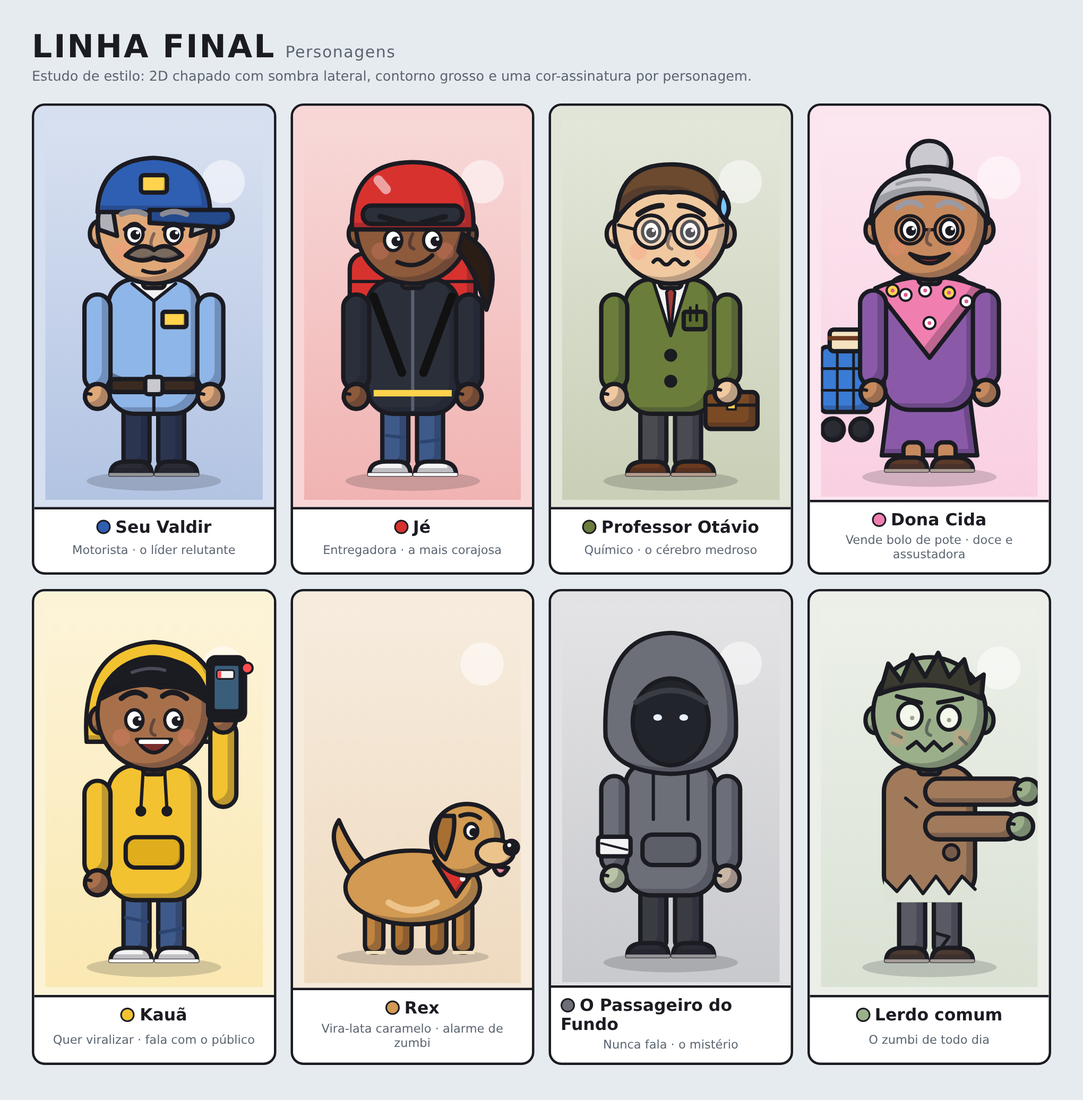
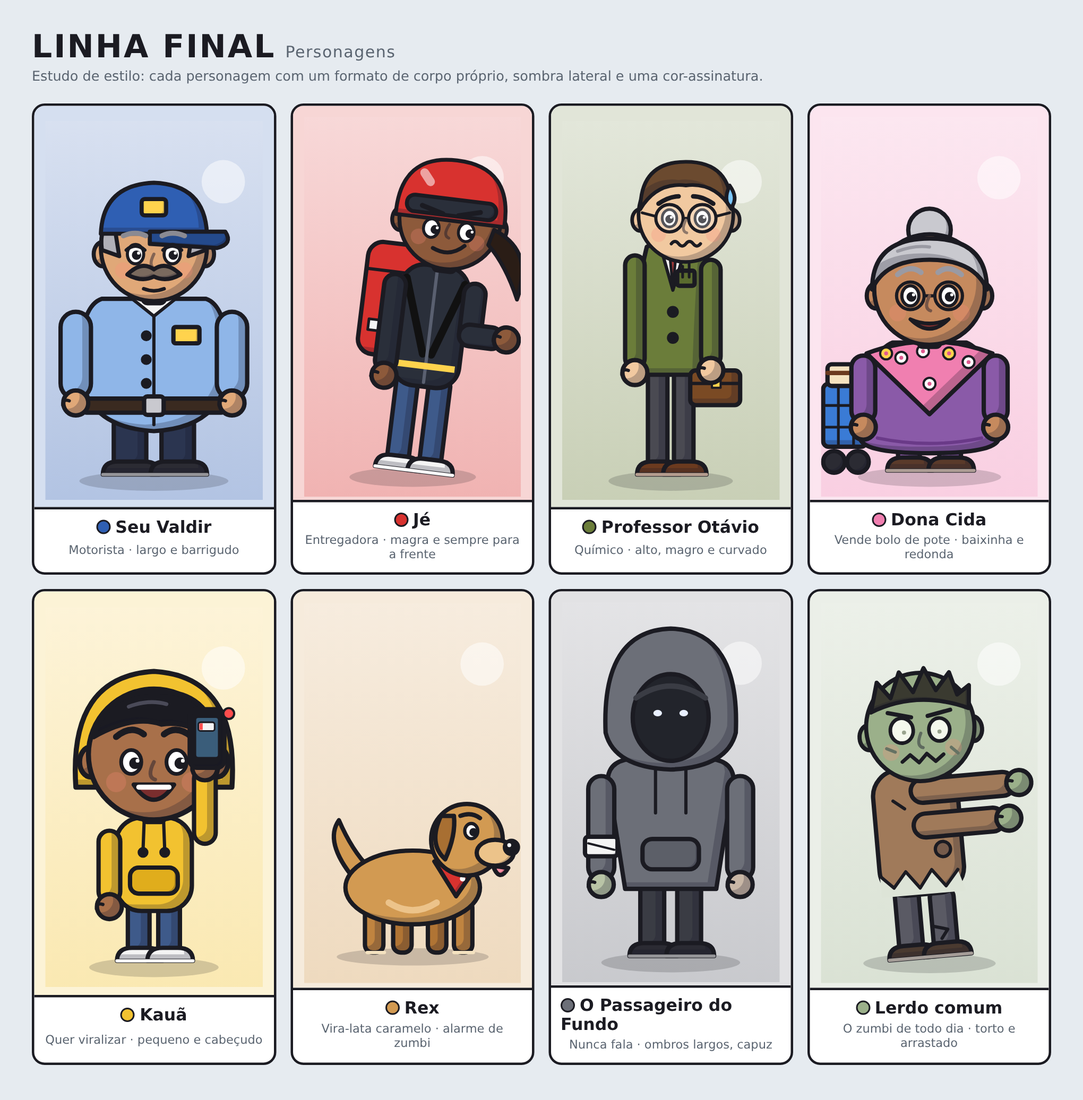
Redesign Linha Final character bodies with distinct silhouettes
Claude-Session: https://claude.ai/code/session_01R1kLXz8bPwCU4ZKt7s68Z3

diff --git a/linha-final/fonte/folha.html b/linha-final/fonte/folha.html
@@ -69,32 +69,74 @@ const ears = (skin) => S("ellipse", `cx="50" cy="104" rx="9" ry="12"`, skin) + S
 const hand = (cx, cy, skin) => S("circle", `cx="${cx}" cy="${cy}" r="11.5"`, skin) + `<path d="M${cx - 6} ${cy - 2} q-6 -2 -6 4" fill="none" stroke-width="3"/>`;
 const groundShadow = `<ellipse cx="100" cy="332" rx="62" ry="9" fill="${INK}" opacity=".18" stroke="none"/>`;
 
-function person({ skin, shirt, sleeve, pants, shoes = "#2b2b33", back = "", headBack = "", hair = "", face = "", front = "", head = true, arms = "", torso = "", legs = "" }) {
-  const sl = sleeve || shirt;
-  const defaultArms = S("rect", `x="36" y="160" width="24" height="88" rx="12"`, sl) + hand(48, 254, skin)
-    + S("rect", `x="140" y="160" width="24" height="88" rx="12"`, sl) + hand(152, 254, skin);
-  return `${groundShadow}${back}
-    ${legs || (S("rect", `x="72" y="260" width="24" height="60" rx="8"`, pants) + S("rect", `x="104" y="260" width="24" height="60" rx="8"`, pants))}
-    ${S("path", `d="M60 326 Q60 314 76 314 L86 314 Q98 314 98 326 Z"`, shoes)}${S("path", `d="M102 326 Q102 314 114 314 L124 314 Q140 314 140 326 Z"`, shoes)}
-    <path d="M60 326 L98 326 M102 326 L140 326" fill="none" stroke="${light(shoes, 0.5)}" stroke-width="3"/>
-    ${S("rect", `x="58" y="146" width="84" height="124" rx="24"`, shirt)}
-    ${torso}
-    ${arms || defaultArms}
-    ${head ? S("rect", `x="90" y="136" width="20" height="18" rx="4"`, skin, { dx: -4, dy: -2 }) : ""}
-    ${headBack}
-    ${head ? ears(skin) + S("circle", `cx="100" cy="98" r="52"`, skin) : ""}
-    ${head ? `<circle cx="70" cy="120" r="8" fill="#ff8a7a" opacity=".25" stroke="none"/><circle cx="130" cy="120" r="8" fill="#ff8a7a" opacity=".25" stroke="none"/>` : ""}
-    ${hair}
-    ${face}
-    ${front}`;
+// Body layout: every character gets its own shape so the silhouette alone identifies them.
+function geom(L = {}) {
+  const g = {
+    cx: 100, feet: 326,
+    torsoW: L.torsoW ?? 84, torsoH: L.torsoH ?? 124, legH: L.legH ?? 60, legW: L.legW ?? 24, legGap: L.legGap ?? 8,
+    armW: L.armW ?? 24, armH: L.armH ?? 88, headS: L.headS ?? 1, headDX: L.headDX ?? 0, headDY: L.headDY ?? 0,
+  };
+  g.legTop = g.feet - 6 - g.legH;
+  g.bottom = g.legTop + 10;
+  g.top = g.bottom - g.torsoH;
+  g.x = g.cx - g.torsoW / 2;
+  g.right = g.x + g.torsoW;
+  g.shoulder = g.top + 12;
+  g.armLX = g.x - g.armW + 4;
+  g.armRX = g.right - 4;
+  g.handY = g.shoulder + g.armH + 4;
+  g.handLX = g.armLX + g.armW / 2;
+  g.handRX = g.armRX + g.armW / 2;
+  g.headCX = g.cx + g.headDX;
+  g.headCY = g.top - 8 - 52 * g.headS + 10 + g.headDY;
+  g.legLX = g.cx - g.legGap / 2 - g.legW;
+  g.legRX = g.cx + g.legGap / 2;
+  return g;
+}
+const call = (v, g) => (typeof v === "function" ? v(g) : v || "");
+
+function person(o) {
+  const g = geom(o.L);
+  const { skin, shirt, pants, shoes = "#2b2b33" } = o;
+  const sl = o.sleeve || shirt;
+  const rx = Math.min(24, g.torsoW / 3);
+  const torsoShape = o.torsoShape ? o.torsoShape(g) : S("rect", `x="${g.x}" y="${g.top}" width="${g.torsoW}" height="${g.torsoH}" rx="${rx}"`, shirt);
+  const defaultArms = S("rect", `x="${g.armLX}" y="${g.shoulder}" width="${g.armW}" height="${g.armH}" rx="${g.armW / 2}"`, sl) + hand(g.handLX, g.handY, skin)
+    + S("rect", `x="${g.armRX}" y="${g.shoulder}" width="${g.armW}" height="${g.armH}" rx="${g.armW / 2}"`, sl) + hand(g.handRX, g.handY, skin);
+  const defaultLegs = S("rect", `x="${g.legLX}" y="${g.legTop}" width="${g.legW}" height="${g.legH}" rx="8"`, pants)
+    + S("rect", `x="${g.legRX}" y="${g.legTop}" width="${g.legW}" height="${g.legH}" rx="8"`, pants);
+  const shoe = (lx, w) => S("path", `d="M${lx - 10} ${g.feet} Q${lx - 10} ${g.feet - 12} ${lx + 4} ${g.feet - 12} L${lx + w - 2} ${g.feet - 12} Q${lx + w + 12} ${g.feet - 12} ${lx + w + 12} ${g.feet} Z"`, shoes);
+  const headT = `translate(${g.headCX - 100 * g.headS} ${g.headCY - 98 * g.headS}) scale(${g.headS})`;
+  const headPart = `<g transform="${headT}">
+      ${call(o.headBack, g)}
+      ${o.head === false ? "" : ears(skin) + S("circle", `cx="100" cy="98" r="52"`, skin)}
+      ${o.head === false ? "" : `<circle cx="70" cy="120" r="8" fill="#ff8a7a" opacity=".25" stroke="none"/><circle cx="130" cy="120" r="8" fill="#ff8a7a" opacity=".25" stroke="none"/>`}
+      ${call(o.hair, g)}${call(o.face, g)}</g>`;
+  const lean = o.lean || 0, sc = o.scale || 1;
+  return `<ellipse cx="100" cy="332" rx="${62 * sc + (o.L?.torsoW ?? 84) / 6 - 14}" ry="9" fill="${INK}" opacity=".18" stroke="none"/>
+    <g transform="translate(100 ${g.feet}) rotate(${lean}) scale(${sc}) translate(-100 ${-g.feet})">
+    ${call(o.back, g)}
+    ${o.legs ? o.legs(g) : defaultLegs}
+    ${shoe(g.legLX, g.legW)}${shoe(g.legRX, g.legW)}
+    <path d="M${g.legLX - 10} ${g.feet} L${g.legLX + g.legW + 12} ${g.feet} M${g.legRX - 10} ${g.feet} L${g.legRX + g.legW + 12} ${g.feet}" fill="none" stroke="${light(shoes, 0.5)}" stroke-width="3"/>
+    ${torsoShape}
+    ${call(o.torso, g)}
+    ${o.arms ? o.arms(g) : defaultArms}
+    ${o.head === false ? "" : S("rect", `x="${g.headCX - 10}" y="${g.top - 14}" width="20" height="18" rx="4"`, skin, { dx: -4, dy: -2 })}
+    ${headPart}
+    ${call(o.front, g)}
+    </g>`;
 }
 
 const chars = [
-  { name: "Seu Valdir", role: "Motorista · o líder relutante", color: "#2f5fb3", art: (bg) => svg("0 0 200 350", person({
+  { name: "Seu Valdir", role: "Motorista · largo e barrigudo", color: "#2f5fb3", art: (bg) => svg("0 0 200 350", person({
       skin: "#e0a878", shirt: "#8fb6e8", pants: "#2b3550",
-      torso: `<path d="M100 150 L100 268" fill="none" stroke-width="3"/><path d="M80 150 L100 166 L120 150" fill="#f4f4f4" stroke-width="3"/>
-              ${S("rect", `x="108" y="176" width="22" height="14" rx="2"`, "#ffd34d", { dx: -3, dy: -2 })}<path d="M62 234 Q100 252 138 234" fill="none" stroke="${dark("#8fb6e8", 0.4)}" stroke-width="3"/>
-              ${S("rect", `x="60" y="238" width="80" height="12" rx="3"`, "#3a2a20", { dx: -3, dy: -2 })}${S("rect", `x="92" y="236" width="16" height="16" rx="3"`, "#c9c9cf", { dx: -2, dy: -2 })}`,
+      L: { torsoW: 124, torsoH: 118, legH: 48, legW: 30, legGap: 14, armW: 28, armH: 80, headS: 0.94 },
+      torsoShape: (g) => S("path", `d="M${g.x + 14} ${g.top} L${g.right - 14} ${g.top} Q${g.right + 4} ${g.top + 6} ${g.right + 6} ${g.top + 50} Q${g.right + 10} ${g.bottom} ${g.cx} ${g.bottom + 4} Q${g.x - 10} ${g.bottom} ${g.x - 6} ${g.top + 50} Q${g.x - 4} ${g.top + 6} ${g.x + 14} ${g.top} Z"`, "#8fb6e8"),
+      torso: (g) => `<path d="M${g.cx} ${g.top + 4} L${g.cx} ${g.bottom - 2}" fill="none" stroke-width="3"/><path d="M${g.cx - 20} ${g.top} L${g.cx} ${g.top + 16} L${g.cx + 20} ${g.top}" fill="#f4f4f4" stroke-width="3"/>
+              ${S("rect", `x="${g.cx + 18}" y="${g.top + 26}" width="24" height="15" rx="2"`, "#ffd34d", { dx: -3, dy: -2 })}
+              ${[0, 1, 2].map((i) => `<circle cx="${g.cx - 7}" cy="${g.top + 34 + i * 22}" r="3" fill="${INK}"/>`).join("")}
+              ${S("rect", `x="${g.x - 4}" y="${g.bottom - 26}" width="${g.torsoW + 8}" height="13" rx="4"`, "#3a2a20", { dx: -3, dy: -2 })}${S("rect", `x="${g.cx - 9}" y="${g.bottom - 28}" width="18" height="17" rx="3"`, "#c9c9cf", { dx: -2, dy: -2 })}`,
       hair: `<path d="M49 100 Q46 76 60 68 L66 106 Z" fill="#b0b0b8"/><path d="M151 100 Q154 76 140 68 L134 106 Z" fill="#b0b0b8"/>
              ${S("path", `d="M48 84 Q50 36 100 34 Q150 36 152 84 Z"`, "#2f5fb3")}${S("path", `d="M96 82 L170 82 Q178 94 162 98 L96 94 Z"`, "#244a8c", { dx: -3, dy: -3 })}
              ${S("rect", `x="88" y="50" width="24" height="16" rx="3"`, "#ffd34d", { dx: -3, dy: -2 })}`,
@@ -102,27 +144,32 @@ const chars = [
              ${S("path", `d="M74 124 Q88 110 100 119 Q112 110 126 124 Q112 132 100 126 Q88 132 74 124 Z"`, "#7a6a5e", { dx: -2, dy: -3 })}
              <path d="M90 138 Q100 142 110 138" fill="none" stroke-width="3.5"/>`,
     }), bg) },
-  { name: "Jé", role: "Entregadora · a mais corajosa", color: "#d8322f", art: (bg) => svg("0 0 200 350", person({
-      skin: "#8d5a3b", shirt: "#2a2f3a", pants: "#3e5a8a", shoes: "#f4f4f4",
-      back: `${S("rect", `x="42" y="122" width="116" height="108" rx="14"`, "#d8322f")}<path d="M42 148 L158 148" fill="none" stroke-width="3"/>
-             <rect x="58" y="196" width="84" height="10" fill="#f4f4f4" stroke-width="2.5"/>`,
-      torso: `<path d="M64 162 L90 232 M136 162 L110 232" fill="none" stroke="#111" stroke-width="8"/><path d="M100 150 L100 266" fill="none" stroke="#5a6070" stroke-width="3"/>
-              <rect x="64" y="248" width="72" height="6" fill="#ffd34d" stroke="none"/>`,
-      legs: S("rect", `x="72" y="260" width="24" height="60" rx="8"`, "#3e5a8a") + S("rect", `x="104" y="260" width="24" height="60" rx="8"`, "#3e5a8a") + `<path d="M76 290 L92 292 M108 296 L124 294" fill="none" stroke="#2c4470" stroke-width="3"/>`,
-      hair: `${S("path", `d="M146 104 Q186 124 168 174 Q158 138 142 120 Z"`, "#2a1d16", { dx: -3, dy: -3 })}
+  { name: "Jé", role: "Entregadora · magra e sempre para a frente", color: "#d8322f", art: (bg) => svg("0 0 200 350", person({
+      skin: "#8d5a3b", shirt: "#2a2f3a", pants: "#3e5a8a", shoes: "#f4f4f4", lean: 7,
+      L: { torsoW: 62, torsoH: 112, legH: 82, legW: 20, legGap: 10, armW: 20, armH: 90, headS: 0.9, headDX: 6 },
+      back: (g) => `${S("rect", `x="${g.x - 34}" y="${g.top - 16}" width="${g.torsoW + 22}" height="104" rx="14"`, "#d8322f")}<path d="M${g.x - 34} ${g.top + 10} L${g.x - 12 + g.torsoW} ${g.top + 10}" fill="none" stroke-width="3"/>
+             <rect x="${g.x - 26}" y="${g.top + 56}" width="${g.torsoW + 6}" height="10" fill="#f4f4f4" stroke-width="2.5"/>`,
+      torso: (g) => `<path d="M${g.x + 4} ${g.top + 14} L${g.cx - 4} ${g.bottom - 30} M${g.right - 4} ${g.top + 14} L${g.cx + 4} ${g.bottom - 30}" fill="none" stroke="#111" stroke-width="7"/>
+              <path d="M${g.cx} ${g.top + 4} L${g.cx} ${g.bottom - 4}" fill="none" stroke="#5a6070" stroke-width="3"/><rect x="${g.x + 4}" y="${g.bottom - 22}" width="${g.torsoW - 8}" height="6" fill="#ffd34d" stroke="none"/>`,
+      arms: (g) => S("rect", `x="${g.armLX}" y="${g.shoulder}" width="${g.armW}" height="${g.armH}" rx="10"`, "#2a2f3a") + hand(g.handLX, g.handY, "#8d5a3b")
+            + S("rect", `x="${g.armRX}" y="${g.shoulder}" width="${g.armW}" height="${g.armH - 34}" rx="10"`, "#2a2f3a", { dx: -4, dy: -3 })
+            + S("rect", `x="${g.armRX}" y="${g.shoulder + g.armH - 52}" width="40" height="${g.armW}" rx="10"`, "#2a2f3a", { dx: -4, dy: -3 }) + hand(g.armRX + 44, g.shoulder + g.armH - 42, "#8d5a3b"),
+      hair: `${S("path", `d="M146 104 Q190 120 178 172 Q162 138 142 120 Z"`, "#2a1d16", { dx: -3, dy: -3 })}
              ${S("path", `d="M44 100 Q42 38 100 38 Q158 38 156 100 Z"`, "#d8322f")}${S("rect", `x="54" y="78" width="92" height="17" rx="8"`, "#2a2f3a", { dx: -3, dy: -2 })}
              ${shine(62, 54, 9, 20, -40)}`,
-      face: `${eyes({ y: 110, look: 2, brow: "sharp" })}${nose("#8d5a3b")}<path d="M86 130 Q104 138 118 124" fill="none" stroke-width="4"/>`,
+      face: `${eyes({ y: 110, look: 3, brow: "sharp" })}${nose("#8d5a3b")}<path d="M86 130 Q104 138 118 124" fill="none" stroke-width="4"/>`,
     }), bg) },
-  { name: "Professor Otávio", role: "Químico · o cérebro medroso", color: "#6b7d3a", art: (bg) => svg("0 0 200 350", person({
+  { name: "Professor Otávio", role: "Químico · alto, magro e curvado", color: "#6b7d3a", art: (bg) => svg("0 0 200 350", person({
       skin: "#f1c9a0", shirt: "#6b7d3a", pants: "#4a4a52", shoes: "#6b3a1f",
-      torso: `<path d="M84 148 L100 198 L116 148 Z" fill="#f4f4f4" stroke-width="3"/><path d="M96 158 L100 196 L104 158 L100 152 Z" fill="#a33a3a" stroke-width="2.5"/>
-              <circle cx="100" cy="216" r="4" fill="${INK}"/><circle cx="100" cy="240" r="4" fill="${INK}"/>
-              ${S("rect", `x="112" y="176" width="20" height="16" rx="2"`, "#5a6b2e", { dx: -2, dy: -2 })}<path d="M118 172 L118 184 M124 170 L124 184" fill="none" stroke-width="2.5"/>`,
-      arms: S("rect", `x="36" y="160" width="24" height="88" rx="12"`, "#6b7d3a") + hand(48, 254, "#f1c9a0")
-            + S("rect", `x="140" y="160" width="24" height="84" rx="12"`, "#6b7d3a")
-            + S("rect", `x="132" y="250" width="48" height="34" rx="5"`, "#7a4a24") + `<path d="M132 262 L180 262" fill="none" stroke-width="3"/><path d="M146 250 Q156 238 166 250" fill="none"/>`
-            + `<rect x="152" y="258" width="8" height="8" fill="#ffd34d" stroke-width="2"/>` + hand(152, 250, "#f1c9a0"),
+      L: { torsoW: 56, torsoH: 122, legH: 96, legW: 18, legGap: 6, armW: 18, armH: 104, headS: 0.84, headDX: 14, headDY: 16 },
+      torsoShape: (g) => S("path", `d="M${g.x + 6} ${g.top + 4} Q${g.x + 30} ${g.top - 8} ${g.right + 6} ${g.top + 10} Q${g.right + 2} ${g.top + 60} ${g.right} ${g.bottom} L${g.x} ${g.bottom} Q${g.x - 6} ${g.top + 50} ${g.x + 6} ${g.top + 4} Z"`, "#6b7d3a"),
+      torso: (g) => `<path d="M${g.cx - 10} ${g.top + 2} L${g.cx + 2} ${g.top + 44} L${g.cx + 14} ${g.top + 4} Z" fill="#f4f4f4" stroke-width="3"/><path d="M${g.cx - 1} ${g.top + 10} L${g.cx + 2} ${g.top + 42} L${g.cx + 5} ${g.top + 10} Z" fill="#a33a3a" stroke-width="2.5"/>
+              <circle cx="${g.cx + 2}" cy="${g.top + 64}" r="3.5" fill="${INK}"/><circle cx="${g.cx + 2}" cy="${g.top + 88}" r="3.5" fill="${INK}"/>
+              ${S("rect", `x="${g.right - 22}" y="${g.top + 26}" width="16" height="14" rx="2"`, "#5a6b2e", { dx: -2, dy: -2 })}<path d="M${g.right - 17} ${g.top + 22} L${g.right - 17} ${g.top + 32} M${g.right - 11} ${g.top + 20} L${g.right - 11} ${g.top + 32}" fill="none" stroke-width="2.5"/>`,
+      arms: (g) => S("rect", `x="${g.armLX}" y="${g.shoulder}" width="${g.armW}" height="${g.armH}" rx="9"`, "#6b7d3a") + hand(g.handLX, g.handY, "#f1c9a0")
+            + S("rect", `x="${g.armRX + 4}" y="${g.shoulder + 4}" width="${g.armW}" height="${g.armH - 6}" rx="9"`, "#6b7d3a")
+            + S("rect", `x="${g.armRX - 6}" y="${g.handY - 2}" width="46" height="32" rx="5"`, "#7a4a24") + `<path d="M${g.armRX - 6} ${g.handY + 10} L${g.armRX + 40} ${g.handY + 10}" fill="none" stroke-width="3"/>`
+            + `<rect x="${g.armRX + 14}" y="${g.handY + 6}" width="8" height="8" fill="#ffd34d" stroke-width="2"/>` + hand(g.armRX + 13, g.handY - 2, "#f1c9a0"),
       hair: `${S("path", `d="M50 92 Q50 40 100 40 Q150 40 150 92 Q132 62 100 66 Q68 62 50 92 Z"`, "#6b4a2f")}
              ${S("path", `d="M148 66 Q158 80 150 90 Q140 84 148 66 Z"`, "#7cc8ff", { dx: -2, dy: -2 })}`,
       face: `${eyes({ y: 102, look: -1, brow: "worried" })}
@@ -130,32 +177,34 @@ const chars = [
              <path d="M97 102 L103 102 M67 100 L52 96 M133 100 L148 96" fill="none" stroke-width="3"/>${nose("#f1c9a0")}
              <path d="M84 130 q4 -5 8 0 t8 0 t8 0 t8 0" fill="none" stroke-width="3.5"/>`,
     }), bg) },
-  { name: "Dona Cida", role: "Vende bolo de pote · doce e assustadora", color: "#f07fb0", art: (bg) => svg("0 0 200 350", person({
+  { name: "Dona Cida", role: "Vende bolo de pote · baixinha e redonda", color: "#f07fb0", art: (bg) => svg("0 0 200 350", person({
       skin: "#c68a5e", shirt: "#8a5aa8", pants: "#8a5aa8", shoes: "#5a3a2a",
-      back: `${S("rect", `x="0" y="212" width="46" height="60" rx="5"`, "#3a7bd5")}<path d="M0 232 L46 232 M0 252 L46 252 M15 212 L15 272 M30 212 L30 272" fill="none" stroke-width="2.5"/>
-             ${S("circle", `cx="11" cy="288" r="10"`, "#2b2b33", { dx: -3, dy: -3 })}${S("circle", `cx="37" cy="288" r="10"`, "#2b2b33", { dx: -3, dy: -3 })}<path d="M44 214 L52 248" fill="none" stroke-width="5"/>
-             ${S("rect", `x="8" y="196" width="30" height="20" rx="4"`, "#f4e2c0", { dx: -2, dy: -2 })}<path d="M8 204 L38 204" fill="none" stroke="#6b3a1f" stroke-width="4"/>`,
-      legs: S("path", `d="M64 250 L136 250 L144 312 L56 312 Z"`, "#8a5aa8") + S("rect", `x="76" y="300" width="18" height="20" rx="6"`, "#c68a5e", { dx: -2, dy: -2 }) + S("rect", `x="106" y="300" width="18" height="20" rx="6"`, "#c68a5e", { dx: -2, dy: -2 }),
-      torso: `${S("path", `d="M50 158 Q100 136 150 158 L100 222 Z"`, "#f07fb0")}
-              ${[[78, 164, "#fff"], [118, 162, "#ffd34d"], [100, 190, "#fff"], [134, 170, "#fff"], [66, 160, "#ffd34d"], [96, 160, "#fff"]].map(([x, y, c]) => `<circle cx="${x}" cy="${y}" r="5.5" fill="${c}" stroke-width="2"/><circle cx="${x}" cy="${y}" r="1.8" fill="#e05a90" stroke="none"/>`).join("")}`,
+      L: { torsoW: 108, torsoH: 96, legH: 26, legW: 20, legGap: 18, armW: 22, armH: 62, headS: 0.98 },
+      back: (g) => `${S("rect", `x="${g.x - 44}" y="${g.bottom - 58}" width="40" height="58" rx="5"`, "#3a7bd5")}<path d="M${g.x - 44} ${g.bottom - 38} L${g.x - 4} ${g.bottom - 38} M${g.x - 44} ${g.bottom - 18} L${g.x - 4} ${g.bottom - 18} M${g.x - 30} ${g.bottom - 58} L${g.x - 30} ${g.bottom} M${g.x - 16} ${g.bottom - 58} L${g.x - 16} ${g.bottom}" fill="none" stroke-width="2.5"/>
+             ${S("circle", `cx="${g.x - 34}" cy="${g.feet - 8}" r="10"`, "#2b2b33", { dx: -3, dy: -3 })}${S("circle", `cx="${g.x - 12}" cy="${g.feet - 8}" r="10"`, "#2b2b33", { dx: -3, dy: -3 })}<path d="M${g.x - 10} ${g.bottom - 56} L${g.x - 2} ${g.handY - 4}" fill="none" stroke-width="5"/>
+             ${S("rect", `x="${g.x - 40}" y="${g.bottom - 76}" width="30" height="20" rx="4"`, "#f4e2c0", { dx: -2, dy: -2 })}<path d="M${g.x - 40} ${g.bottom - 68} L${g.x - 10} ${g.bottom - 68}" fill="none" stroke="#6b3a1f" stroke-width="4"/>`,
+      torsoShape: (g) => S("path", `d="M${g.x + 20} ${g.top} L${g.right - 20} ${g.top} Q${g.right + 6} ${g.top + 10} ${g.right + 10} ${g.bottom - 10} Q${g.right + 12} ${g.bottom + 6} ${g.cx} ${g.bottom + 6} Q${g.x - 12} ${g.bottom + 6} ${g.x - 10} ${g.bottom - 10} Q${g.x - 6} ${g.top + 10} ${g.x + 20} ${g.top} Z"`, "#8a5aa8"),
+      torso: (g) => `${S("path", `d="M${g.x - 4} ${g.top + 10} Q${g.cx} ${g.top - 12} ${g.right + 4} ${g.top + 10} L${g.cx} ${g.top + 66} Z"`, "#f07fb0")}
+              ${[[-26, 14, "#fff"], [18, 10, "#ffd34d"], [0, 38, "#fff"], [36, 18, "#fff"], [-40, 10, "#ffd34d"], [-6, 8, "#fff"]].map(([dx, dy, c]) => `<circle cx="${g.cx + dx}" cy="${g.top + dy}" r="5.5" fill="${c}" stroke-width="2"/><circle cx="${g.cx + dx}" cy="${g.top + dy}" r="1.8" fill="#e05a90" stroke="none"/>`).join("")}
+              <path d="M${g.x + 6} ${g.bottom - 8} Q${g.cx} ${g.bottom + 2} ${g.right - 6} ${g.bottom - 8}" fill="none" stroke="#6a3a88" stroke-width="3"/>`,
       headBack: S("circle", `cx="100" cy="42" r="20"`, "#c9c9cf", { dx: -4, dy: -3 }),
       hair: `${S("path", `d="M46 98 Q46 50 100 50 Q154 50 154 98 Q142 70 100 70 Q58 70 46 98 Z"`, "#c9c9cf")}<path d="M70 62 Q86 56 100 58" fill="none" stroke="#9a9aa3" stroke-width="3"/>`,
       face: `${eyes({ y: 104, brow: "up", browColor: "#9a9aa3" })}<circle cx="82" cy="104" r="13" fill="none" stroke-width="3"/><circle cx="118" cy="104" r="13" fill="none" stroke-width="3"/><path d="M95 104 L105 104" fill="none" stroke-width="3"/>
              ${nose("#c68a5e")}<path d="M82 126 Q100 144 118 126 Q100 134 82 126 Z" fill="#7a2e2e" stroke-width="3.5"/>`,
     }), bg) },
-  { name: "Kauã", role: "Quer viralizar · fala com o público", color: "#f2c230", art: (bg) => svg("0 0 200 350", person({
+  { name: "Kauã", role: "Quer viralizar · pequeno e cabeçudo", color: "#f2c230", art: (bg) => svg("0 0 200 350", person({
       skin: "#a8704a", shirt: "#f2c230", pants: "#3e5a8a", shoes: "#f4f4f4",
-      torso: `${S("rect", `x="74" y="212" width="52" height="28" rx="9"`, "#e0ad1c", { dx: -3, dy: -2 })}<path d="M90 152 L88 186 M110 152 L112 186" fill="none" stroke-width="3"/>
-              <circle cx="88" cy="188" r="3" fill="${INK}"/><circle cx="112" cy="188" r="3" fill="${INK}"/>`,
-      legs: S("rect", `x="72" y="260" width="24" height="60" rx="8"`, "#3e5a8a") + S("rect", `x="104" y="260" width="24" height="60" rx="8"`, "#3e5a8a") + `<path d="M74 286 L94 290 M106 300 L126 296" fill="none" stroke="#2c4470" stroke-width="3"/>`,
-      arms: S("rect", `x="36" y="160" width="24" height="88" rx="12"`, "#f2c230") + hand(48, 254, "#a8704a"),
+      L: { torsoW: 70, torsoH: 86, legH: 50, legW: 20, legGap: 8, armW: 20, armH: 66, headS: 1.16 },
+      torso: (g) => `${S("rect", `x="${g.cx - 22}" y="${g.bottom - 40}" width="44" height="24" rx="8"`, "#e0ad1c", { dx: -3, dy: -2 })}<path d="M${g.cx - 9} ${g.top + 4} L${g.cx - 10} ${g.top + 30} M${g.cx + 9} ${g.top + 4} L${g.cx + 10} ${g.top + 30}" fill="none" stroke-width="3"/>
+              <circle cx="${g.cx - 10}" cy="${g.top + 32}" r="3" fill="${INK}"/><circle cx="${g.cx + 10}" cy="${g.top + 32}" r="3" fill="${INK}"/>`,
+      arms: (g) => S("rect", `x="${g.armLX}" y="${g.shoulder}" width="${g.armW}" height="${g.armH}" rx="10"`, "#f2c230") + hand(g.handLX, g.handY, "#a8704a"),
       headBack: S("path", `d="M38 124 Q32 36 100 32 Q168 36 162 124 Z"`, "#f2c230"),
       hair: `${S("path", `d="M52 84 Q64 46 104 48 Q144 48 150 88 Q126 70 106 74 Q84 66 52 84 Z"`, "#1b1b22", { dx: -3, dy: -3 })}<path d="M80 60 Q96 54 110 58" fill="none" stroke="#4a4a58" stroke-width="3"/>`,
       face: `${eyes({ y: 104, look: 2, brow: "up" })}${nose("#a8704a")}<path d="M84 122 Q100 146 116 122 Z" fill="#7a2e2e" stroke-width="3.5"/><path d="M88 124 L112 124" fill="none" stroke="#fff" stroke-width="4"/>`,
-      front: `${S("rect", `x="152" y="104" width="24" height="80" rx="12"`, "#f2c230")}${hand(164, 104, "#a8704a")}
-              ${S("rect", `x="150" y="46" width="34" height="58" rx="7"`, "#1b1b22", { dx: -3, dy: -3 })}<rect x="155" y="53" width="24" height="42" rx="3" fill="#3a5d7a" stroke-width="2"/>
-              <rect x="158" y="58" width="16" height="8" rx="2" fill="#f4f4f4" stroke-width="1.5"/><rect x="159" y="59" width="3" height="6" fill="#ff4d4d" stroke="none"/>
-              <circle cx="186" cy="56" r="5" fill="#ff4d4d" stroke-width="2"/>`,
+      front: (g) => `${S("rect", `x="${g.armRX + 6}" y="${g.shoulder - 58}" width="20" height="70" rx="10"`, "#f2c230")}${hand(g.armRX + 16, g.shoulder - 58, "#a8704a")}
+              ${S("rect", `x="${g.armRX + 2}" y="${g.shoulder - 112}" width="32" height="54" rx="7"`, "#1b1b22", { dx: -3, dy: -3 })}<rect x="${g.armRX + 7}" y="${g.shoulder - 105}" width="22" height="38" rx="3" fill="#3a5d7a" stroke-width="2"/>
+              <rect x="${g.armRX + 10}" y="${g.shoulder - 100}" width="15" height="8" rx="2" fill="#f4f4f4" stroke-width="1.5"/><rect x="${g.armRX + 11}" y="${g.shoulder - 99}" width="3" height="6" fill="#ff4d4d" stroke="none"/>
+              <circle cx="${g.armRX + 38}" cy="${g.shoulder - 108}" r="5" fill="#ff4d4d" stroke-width="2"/>`,
     }), bg) },
   { name: "Rex", role: "Vira-lata caramelo · alarme de zumbi", color: "#d29a52", art: (bg) => svg("0 0 200 350", `
       <ellipse cx="100" cy="326" rx="70" ry="8" fill="${INK}" opacity=".18" stroke="none"/>
@@ -172,23 +221,26 @@ const chars = [
       <ellipse cx="154" cy="210" rx="6" ry="7" fill="#fff" stroke-width="3"/><circle cx="156" cy="211" r="3.8" fill="${INK}" stroke="none"/>
       <path d="M144 196 Q154 192 162 198" fill="none" stroke-width="4"/>
       ${S("path", `d="M174 242 Q180 258 188 244 Z"`, "#ff8fa3", { dx: -2, dy: -2 })}`, bg) },
-  { name: "O Passageiro do Fundo", role: "Nunca fala · o mistério", color: "#6c6f78", art: (bg) => svg("0 0 200 350", person({
+  { name: "O Passageiro do Fundo", role: "Nunca fala · ombros largos, capuz", color: "#6c6f78", art: (bg) => svg("0 0 200 350", person({
       skin: "#c9b7a6", shirt: "#6c6f78", pants: "#3a3c44", head: false,
-      torso: `<path d="M84 150 L84 200 M116 150 L116 200" fill="none" stroke-width="3"/>${S("rect", `x="74" y="214" width="52" height="28" rx="9"`, "#5c5f68", { dx: -3, dy: -2 })}`,
-      arms: S("rect", `x="36" y="160" width="24" height="88" rx="12"`, "#6c6f78") + S("rect", `x="33" y="216" width="30" height="18" rx="3"`, "#f4f4f4", { dx: -2, dy: -2 }) + `<path d="M36 222 L60 228" fill="none" stroke-width="2"/>` + hand(48, 254, "#b9c4a6")
-            + S("rect", `x="140" y="160" width="24" height="88" rx="12"`, "#6c6f78") + hand(152, 254, "#c9b7a6"),
+      L: { torsoW: 96, torsoH: 120, legH: 66, legW: 22, legGap: 12, armW: 24, armH: 96, headS: 1 },
+      torsoShape: (g) => S("path", `d="M${g.x - 10} ${g.top + 18} Q${g.x - 8} ${g.top} ${g.x + 16} ${g.top} L${g.right - 16} ${g.top} Q${g.right + 8} ${g.top} ${g.right + 10} ${g.top + 18} L${g.right - 6} ${g.bottom} L${g.x + 6} ${g.bottom} Z"`, "#6c6f78"),
+      torso: (g) => `<path d="M${g.cx - 14} ${g.top + 4} L${g.cx - 14} ${g.top + 50} M${g.cx + 14} ${g.top + 4} L${g.cx + 14} ${g.top + 50}" fill="none" stroke-width="3"/>${S("rect", `x="${g.cx - 26}" y="${g.bottom - 46}" width="52" height="28" rx="9"`, "#5c5f68", { dx: -3, dy: -2 })}`,
+      arms: (g) => S("rect", `x="${g.armLX - 8}" y="${g.shoulder + 4}" width="${g.armW}" height="${g.armH}" rx="12"`, "#6c6f78") + S("rect", `x="${g.armLX - 11}" y="${g.shoulder + g.armH - 36}" width="30" height="18" rx="3"`, "#f4f4f4", { dx: -2, dy: -2 }) + `<path d="M${g.armLX - 8} ${g.shoulder + g.armH - 30} L${g.armLX + 16} ${g.shoulder + g.armH - 24}" fill="none" stroke-width="2"/>` + hand(g.handLX - 8, g.handY + 4, "#b9c4a6")
+            + S("rect", `x="${g.armRX + 8}" y="${g.shoulder + 4}" width="${g.armW}" height="${g.armH}" rx="12"`, "#6c6f78") + hand(g.handRX + 8, g.handY + 4, "#c9b7a6"),
       hair: `${S("path", `d="M40 124 Q36 30 100 28 Q164 30 160 124 Q152 156 100 158 Q48 156 40 124 Z"`, "#6c6f78")}
              <ellipse cx="100" cy="110" rx="35" ry="40" fill="#22242b" stroke-width="4"/><path d="M68 92 Q100 70 132 92" fill="none" stroke="#3a3c44" stroke-width="5"/>`,
       face: `<ellipse cx="88" cy="106" rx="4" ry="3" fill="#e9f0ff" stroke="none"/><ellipse cx="112" cy="106" rx="4" ry="3" fill="#e9f0ff" stroke="none"/>`,
     }), bg) },
-  { name: "Lerdo comum", role: "O zumbi de todo dia", color: "#9bb08a", art: (bg) => svg("0 0 200 350", person({
-      skin: "#9bb08a", shirt: "#a07a5a", pants: "#5a5a64", shoes: "#4a3a30",
-      torso: `<path d="M58 250 L70 262 L82 248 L94 264 L106 248 L118 264 L130 248 L142 260 L142 272 L58 272 Z" fill="${mix("#9bb08a", "#ffffff", 0.66)}" stroke="none"/>
-              <path d="M58 250 L70 262 L82 248 L94 264 L106 248 L118 264 L130 248 L142 260" fill="none" stroke-width="3"/>
-              <path d="M78 176 l10 8 M112 200 l8 -10" fill="none" stroke-width="3"/><circle cx="120" cy="226" r="7" fill="${mix("#a07a5a", "#141428", 0.3)}" stroke-width="3"/>`,
-      legs: S("rect", `x="72" y="260" width="24" height="60" rx="8"`, "#5a5a64") + S("rect", `x="104" y="264" width="24" height="56" rx="8"`, "#5a5a64") + `<path d="M104 300 L118 304 L112 312" fill="none" stroke-width="3"/>`,
-      arms: S("rect", `x="96" y="158" width="92" height="24" rx="12"`, "#a07a5a") + hand(190, 170, "#9bb08a")
-            + S("rect", `x="96" y="190" width="86" height="24" rx="12"`, "#a07a5a") + hand(184, 202, "#9bb08a"),
+  { name: "Lerdo comum", role: "O zumbi de todo dia · torto e arrastado", color: "#9bb08a", art: (bg) => svg("0 0 200 350", person({
+      skin: "#9bb08a", shirt: "#a07a5a", pants: "#5a5a64", shoes: "#4a3a30", lean: -5,
+      L: { torsoW: 78, torsoH: 116, legH: 62, legW: 22, legGap: 10, armW: 22, armH: 88, headS: 0.96, headDX: 10, headDY: 10 },
+      torso: (g) => `<path d="M${g.x} ${g.bottom - 20} L${g.x + 12} ${g.bottom - 8} L${g.x + 24} ${g.bottom - 22} L${g.x + 36} ${g.bottom - 6} L${g.x + 48} ${g.bottom - 22} L${g.x + 60} ${g.bottom - 6} L${g.x + 72} ${g.bottom - 20} L${g.right} ${g.bottom} L${g.x} ${g.bottom} Z" fill="${mix("#9bb08a", "#ffffff", 0.66)}" stroke="none"/>
+              <path d="M${g.x} ${g.bottom - 20} L${g.x + 12} ${g.bottom - 8} L${g.x + 24} ${g.bottom - 22} L${g.x + 36} ${g.bottom - 6} L${g.x + 48} ${g.bottom - 22} L${g.x + 60} ${g.bottom - 6} L${g.x + 72} ${g.bottom - 20}" fill="none" stroke-width="3"/>
+              <path d="M${g.x + 18} ${g.top + 28} l10 8 M${g.x + 52} ${g.top + 52} l8 -10" fill="none" stroke-width="3"/><circle cx="${g.x + 60}" cy="${g.top + 76}" r="7" fill="${mix("#a07a5a", "#141428", 0.3)}" stroke-width="3"/>`,
+      legs: (g) => S("rect", `x="${g.legLX}" y="${g.legTop}" width="${g.legW}" height="${g.legH}" rx="8"`, "#5a5a64") + S("rect", `x="${g.legRX}" y="${g.legTop + 6}" width="${g.legW}" height="${g.legH - 6}" rx="8"`, "#5a5a64") + `<path d="M${g.legRX} ${g.legTop + 40} L${g.legRX + 14} ${g.legTop + 44} L${g.legRX + 8} ${g.legTop + 52}" fill="none" stroke-width="3"/>`,
+      arms: (g) => S("rect", `x="${g.cx - 4}" y="${g.shoulder - 2}" width="96" height="${g.armW}" rx="11"`, "#a07a5a") + hand(g.cx + 96, g.shoulder + 9, "#9bb08a")
+            + S("rect", `x="${g.cx - 4}" y="${g.shoulder + 30}" width="84" height="${g.armW}" rx="11"`, "#a07a5a") + hand(g.cx + 84, g.shoulder + 41, "#9bb08a"),
       hair: `${S("path", `d="M54 80 L62 52 L74 68 L84 44 L96 64 L108 42 L118 64 L132 48 L138 70 L150 62 L148 84 Q100 62 54 80 Z"`, "#3a3a30", { dx: -3, dy: -3 })}`,
       face: `<ellipse cx="82" cy="100" rx="11" ry="12" fill="#f4f8ec" stroke-width="3.5"/><ellipse cx="118" cy="102" rx="10" ry="11" fill="#f4f8ec" stroke-width="3.5"/>
              <circle cx="84" cy="102" r="2" fill="#9aa48e" stroke="none"/><circle cx="118" cy="104" r="2" fill="#9aa48e" stroke="none"/>
@@ -307,6 +359,6 @@ if (mode === "silhueta") {
 }
 document.getElementById("sheet").innerHTML = mode === "arsenal"
   ? sheet("Acessórios e arsenal", "Tudo improvisado com o que se acha num ônibus e numa cidade.", "items", items)
-  : sheet("Personagens", "Estudo de estilo: 2D chapado com sombra lateral, contorno grosso e uma cor-assinatura por personagem.", "chars", chars);
+  : sheet("Personagens", "Estudo de estilo: cada personagem com um formato de corpo próprio, sombra lateral e uma cor-assinatura.", "chars", chars);
 </script>
 </body></html>
